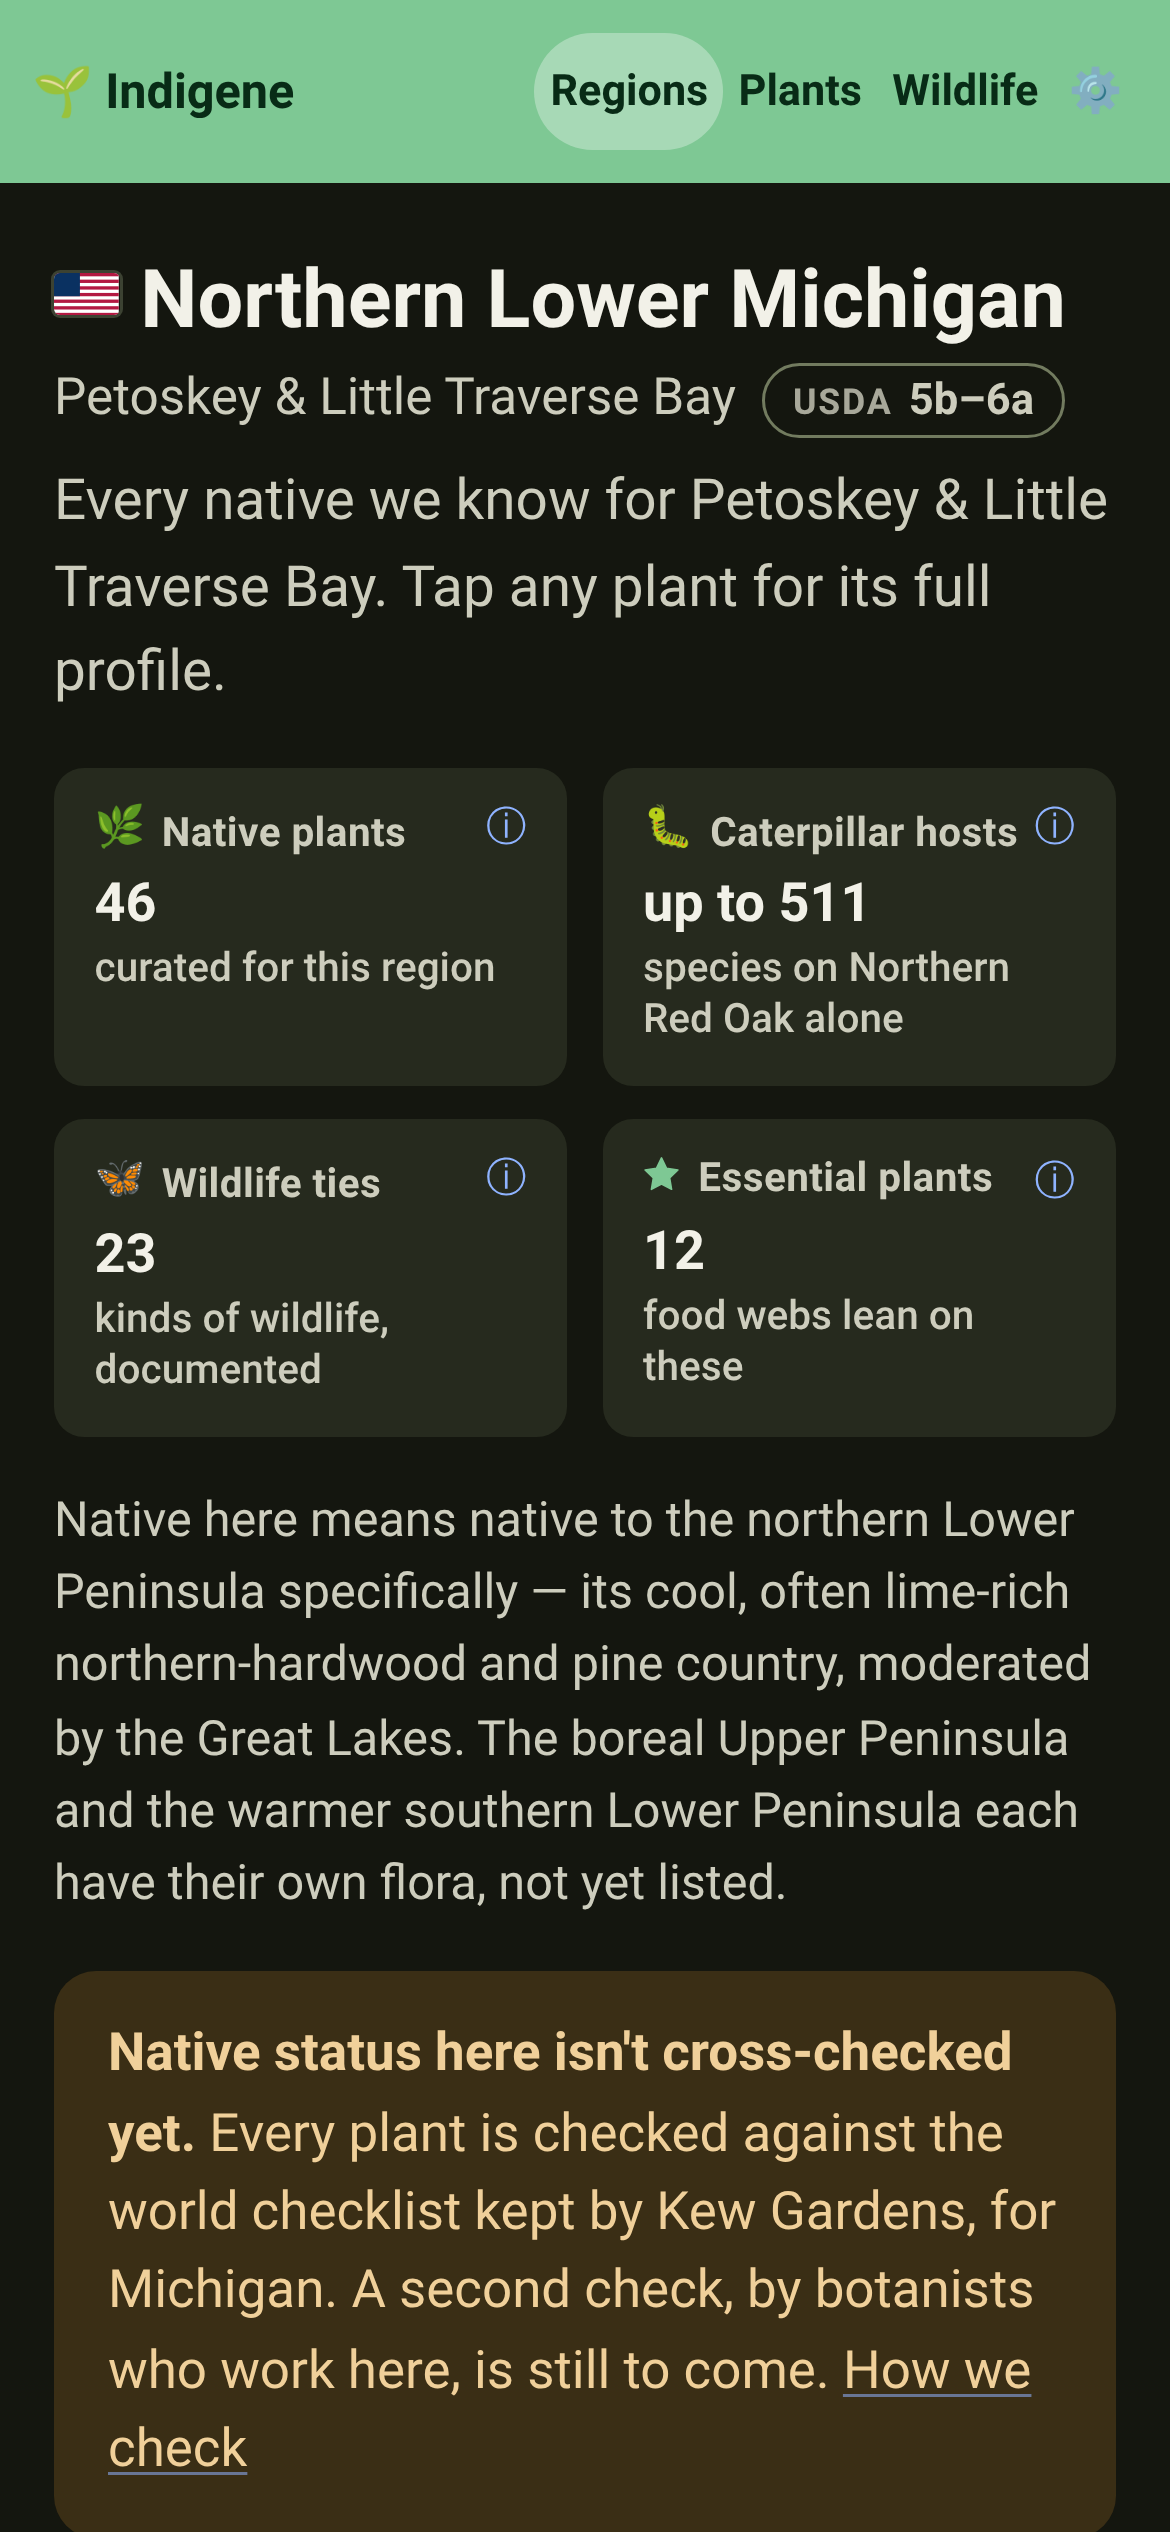
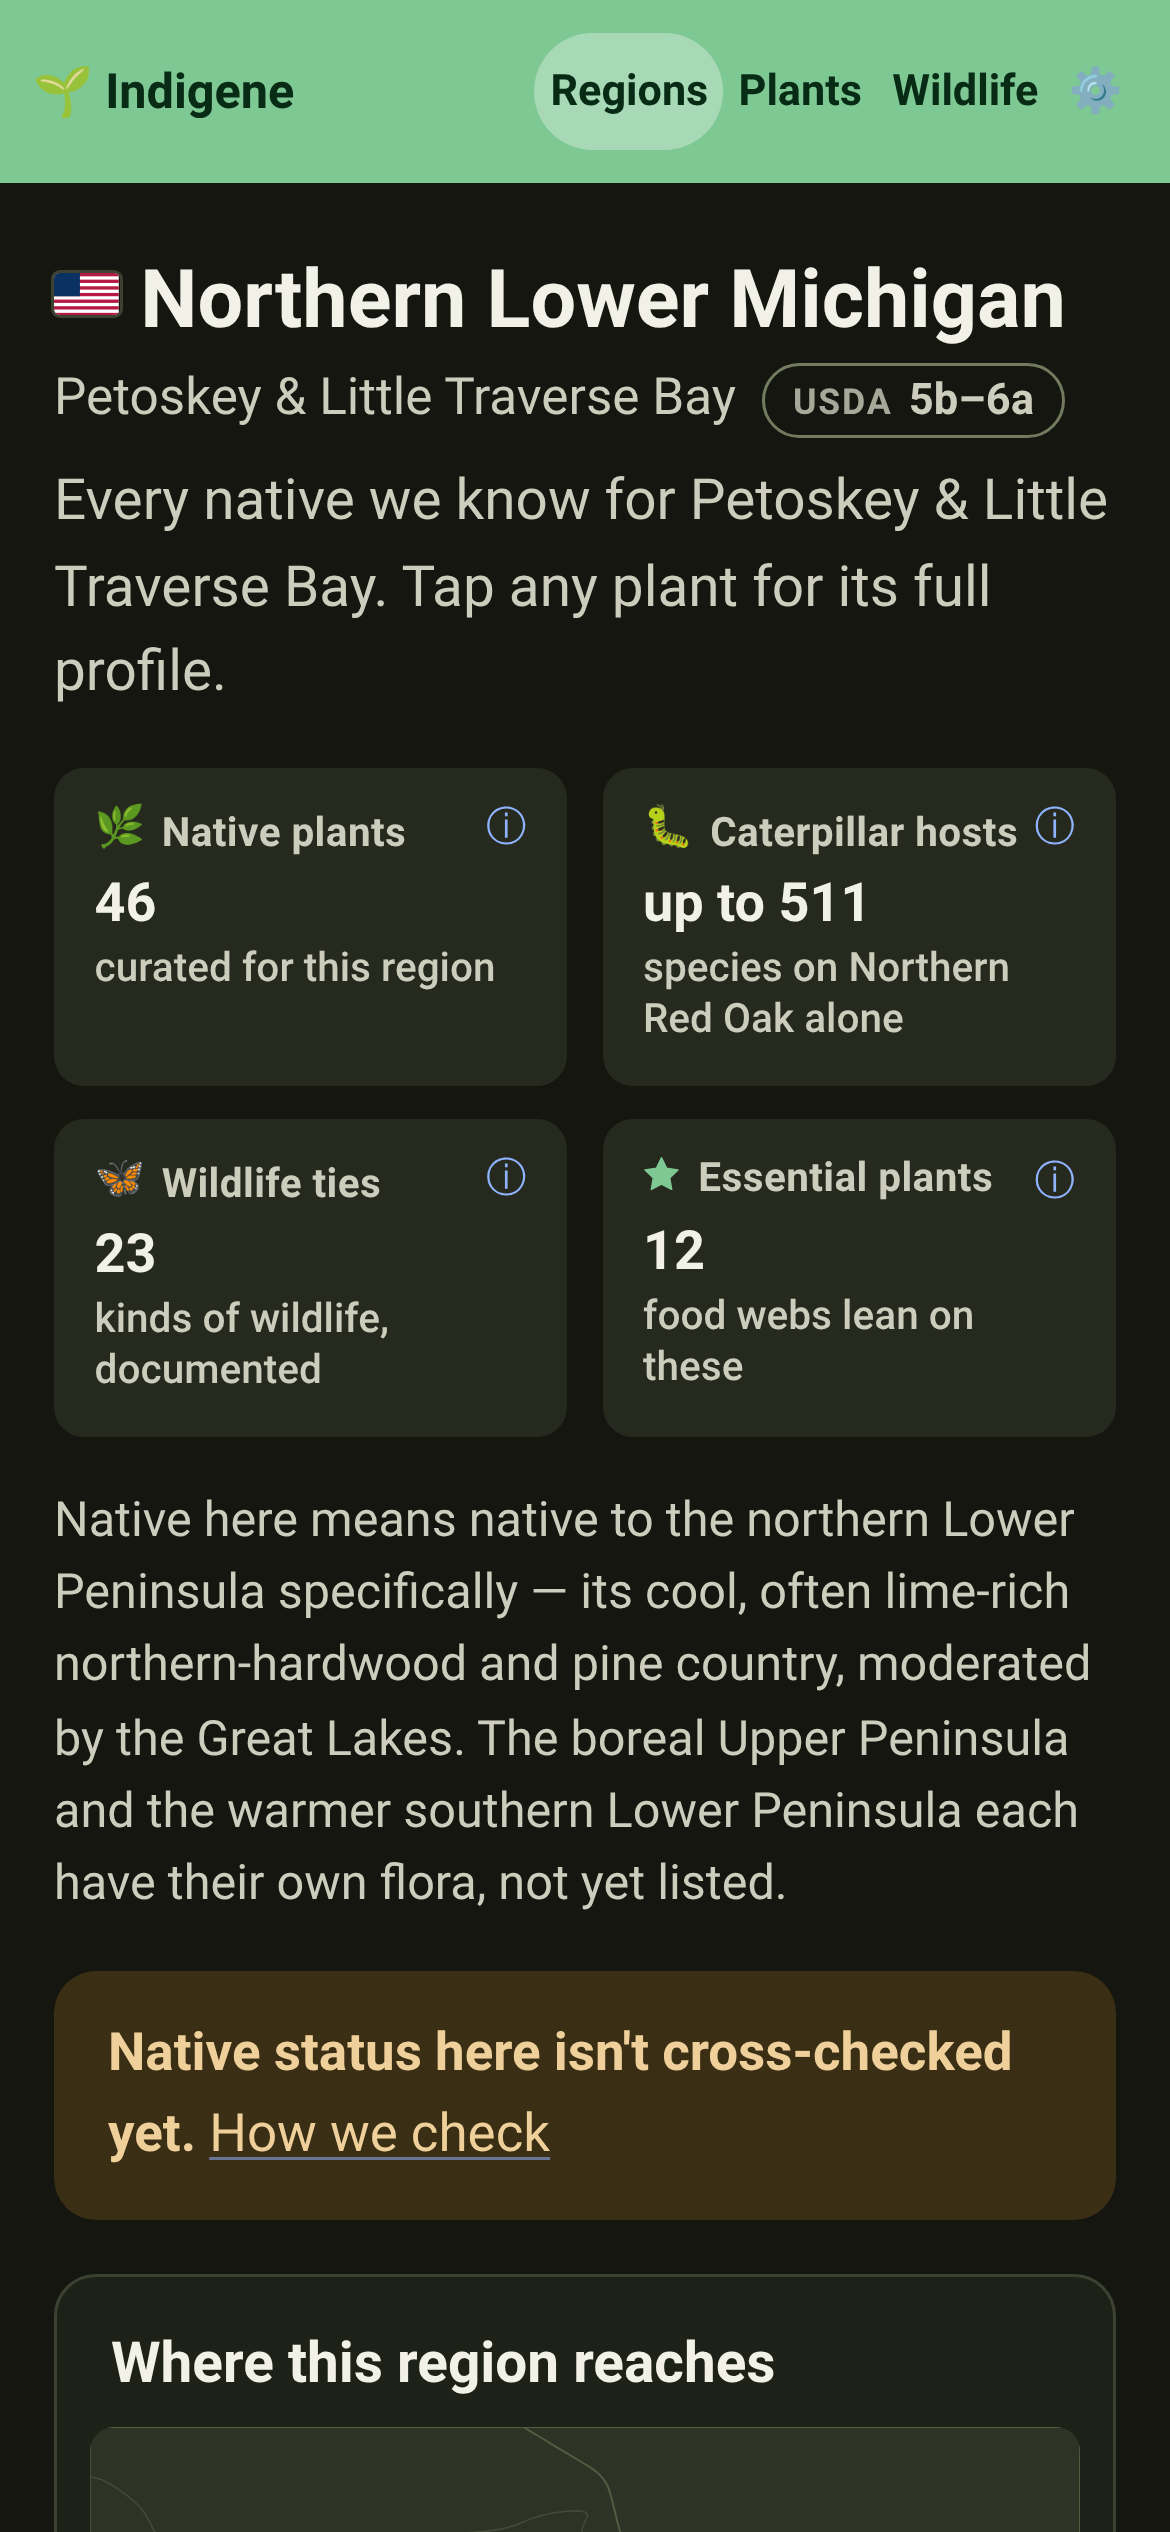
Shorten the cross-check warning to one line and a link
The reasoning lives on the Sources page; the region page only says
the check is missing and points there.

Claude-Session: https://claude.ai/code/session_01J6nBQnfNoAtCKdNXD2xLQ4

Changed region(s): [[0.0308, 0.8112, 0.9538, 1.0], [0.4, 0.9984, 0.4308, 1.0]]

diff --git a/app/src/steps/region.ts b/app/src/steps/region.ts
@@ -42,7 +42,6 @@ import { door } from "../components/plant-door";
 import { lookalikeIcon, alternativeIcon } from "../components/door-icons";
 import { rosterControls, caterpillarLede, countTag } from "../components/roster-controls";
 import { isCrossChecked } from "../data/cross-checks";
-import { kewArea } from "../lib/native-evidence";
 import { SOURCES_ROUTE } from "../lib/plain";
 
 /** The category headings. A function, not a record: a record built at import
@@ -220,13 +219,11 @@ export async function renderRegion(main: HTMLElement, param?: string): Promise<v
  * `#/sources`; which regions clear it is `data/cross-checks.ts`.
  */
 function crossCheckWarning(region: RegionDef): HTMLElement | null {
-  const area = kewArea(region.meta.id);
-  if (isCrossChecked(region.meta.id) || !area) return null;
+  if (isCrossChecked(region.meta.id)) return null;
   return el("p", { class: "note warn cross-check-warn" }, [
     el("strong", {}, t("region.crossCheckWarn")),
-    ...tx("region.crossCheckWarnRest", {
-      link: el("a", { href: SOURCES_ROUTE }, t("region.crossCheckLink")),
-    }, { area }),
+    " ",
+    el("a", { href: SOURCES_ROUTE }, t("region.crossCheckLink")),
   ]);
 }
 

diff --git a/app/src/locales/fr.ts b/app/src/locales/fr.ts
@@ -1720,8 +1720,7 @@ export const fr: Dict = {
   "region.docTitle": "Les indigènes de {region} · Indigene",
   "region.categoryDocTitle": "{label} indigènes de {region} · Indigene",
   "region.lede": "Toutes les indigènes que nous connaissons pour {reference}. Touchez une plante pour voir sa fiche complète.",
-  "region.crossCheckWarn": "Le statut d'indigène n'est pas encore recoupé ici. ",
-  "region.crossCheckWarnRest": "Chaque plante est vérifiée dans la liste mondiale tenue par les jardins de Kew, pour {area}. Une seconde vérification, par des botanistes d'ici, reste à faire. {link}",
+  "region.crossCheckWarn": "Le statut d'indigène n'est pas encore recoupé ici.",
   "region.crossCheckLink": "Notre méthode",
   "region.wildlifeTitle": "La faune que ces plantes nourrissent",
   "region.wildlifeLede": "Touchez un groupe pour voir qui vient. Le nombre après chaque nom, c'est combien de plantes d'ici lui servent.",

diff --git a/app/src/locales/en.ts b/app/src/locales/en.ts
@@ -1761,8 +1761,7 @@ export const en = {
   "region.docTitle": "Natives of {region} · Indigene",
   "region.categoryDocTitle": "{label} native to {region} · Indigene",
   "region.lede": "Every native we know for {reference}. Tap any plant for its full profile.",
-  "region.crossCheckWarn": "Native status here isn't cross-checked yet. ",
-  "region.crossCheckWarnRest": "Every plant is checked against the world checklist kept by Kew Gardens, for {area}. A second check, by botanists who work here, is still to come. {link}",
+  "region.crossCheckWarn": "Native status here isn't cross-checked yet.",
   "region.crossCheckLink": "How we check",
   "region.wildlifeTitle": "Wildlife these plants feed",
   "region.wildlifeLede": "Tap a group to see who turns up. The number on each name is how many plants here it can use.",

diff --git a/app/src/lib/native-evidence.ts b/app/src/lib/native-evidence.ts
@@ -72,13 +72,6 @@ export function nativeEvidence(plantId: string, regionId: string | undefined): N
   };
 }
 
-/** The place Kew's checklist was asked about for a region, in the reader's
- *  language, or null where it never was. */
-export function kewArea(regionId: string): string | null {
-  const region = REGIONS[regionId];
-  return region ? (region.area[getLang()] ?? region.area.en) : null;
-}
-
 /** What one regional flora says: native, or why not. */
 export type FloraVerdict = "native" | "introduced" | "both" | "uncertain" | "absent";
 
